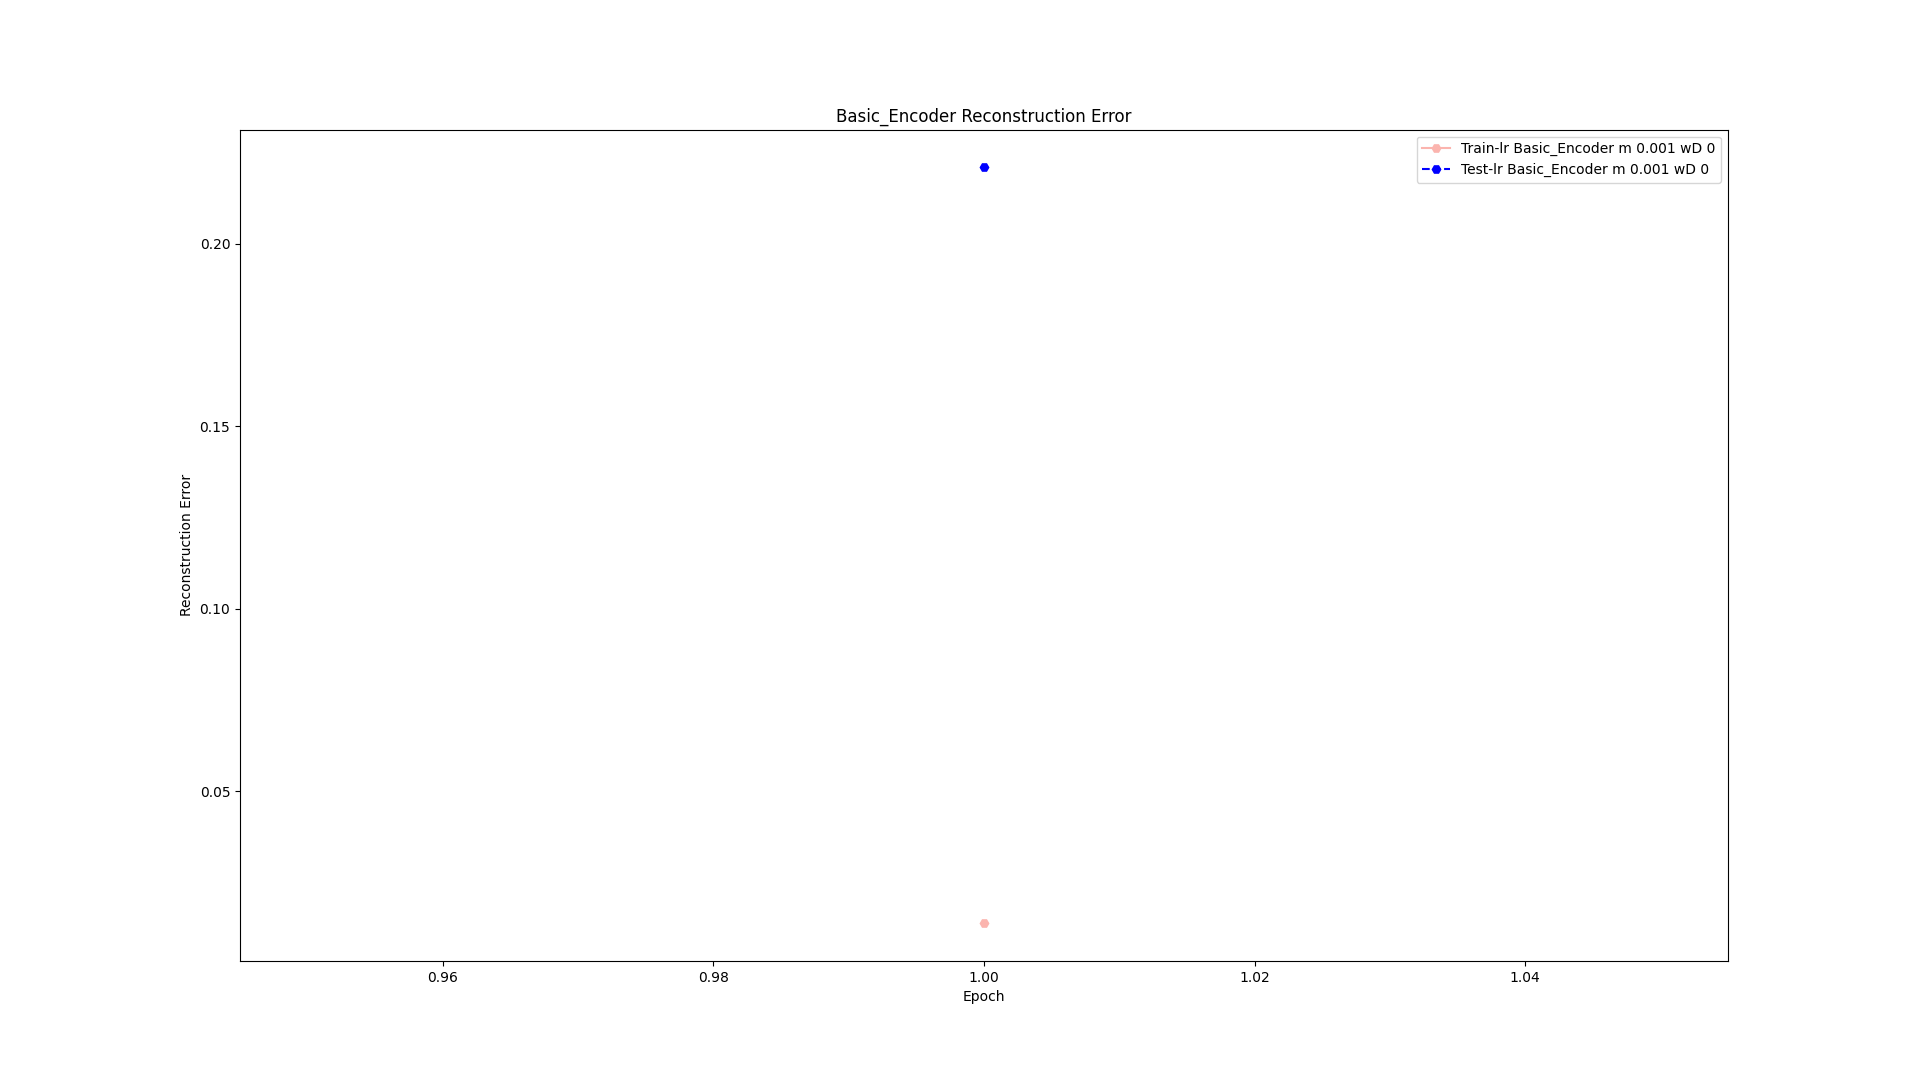
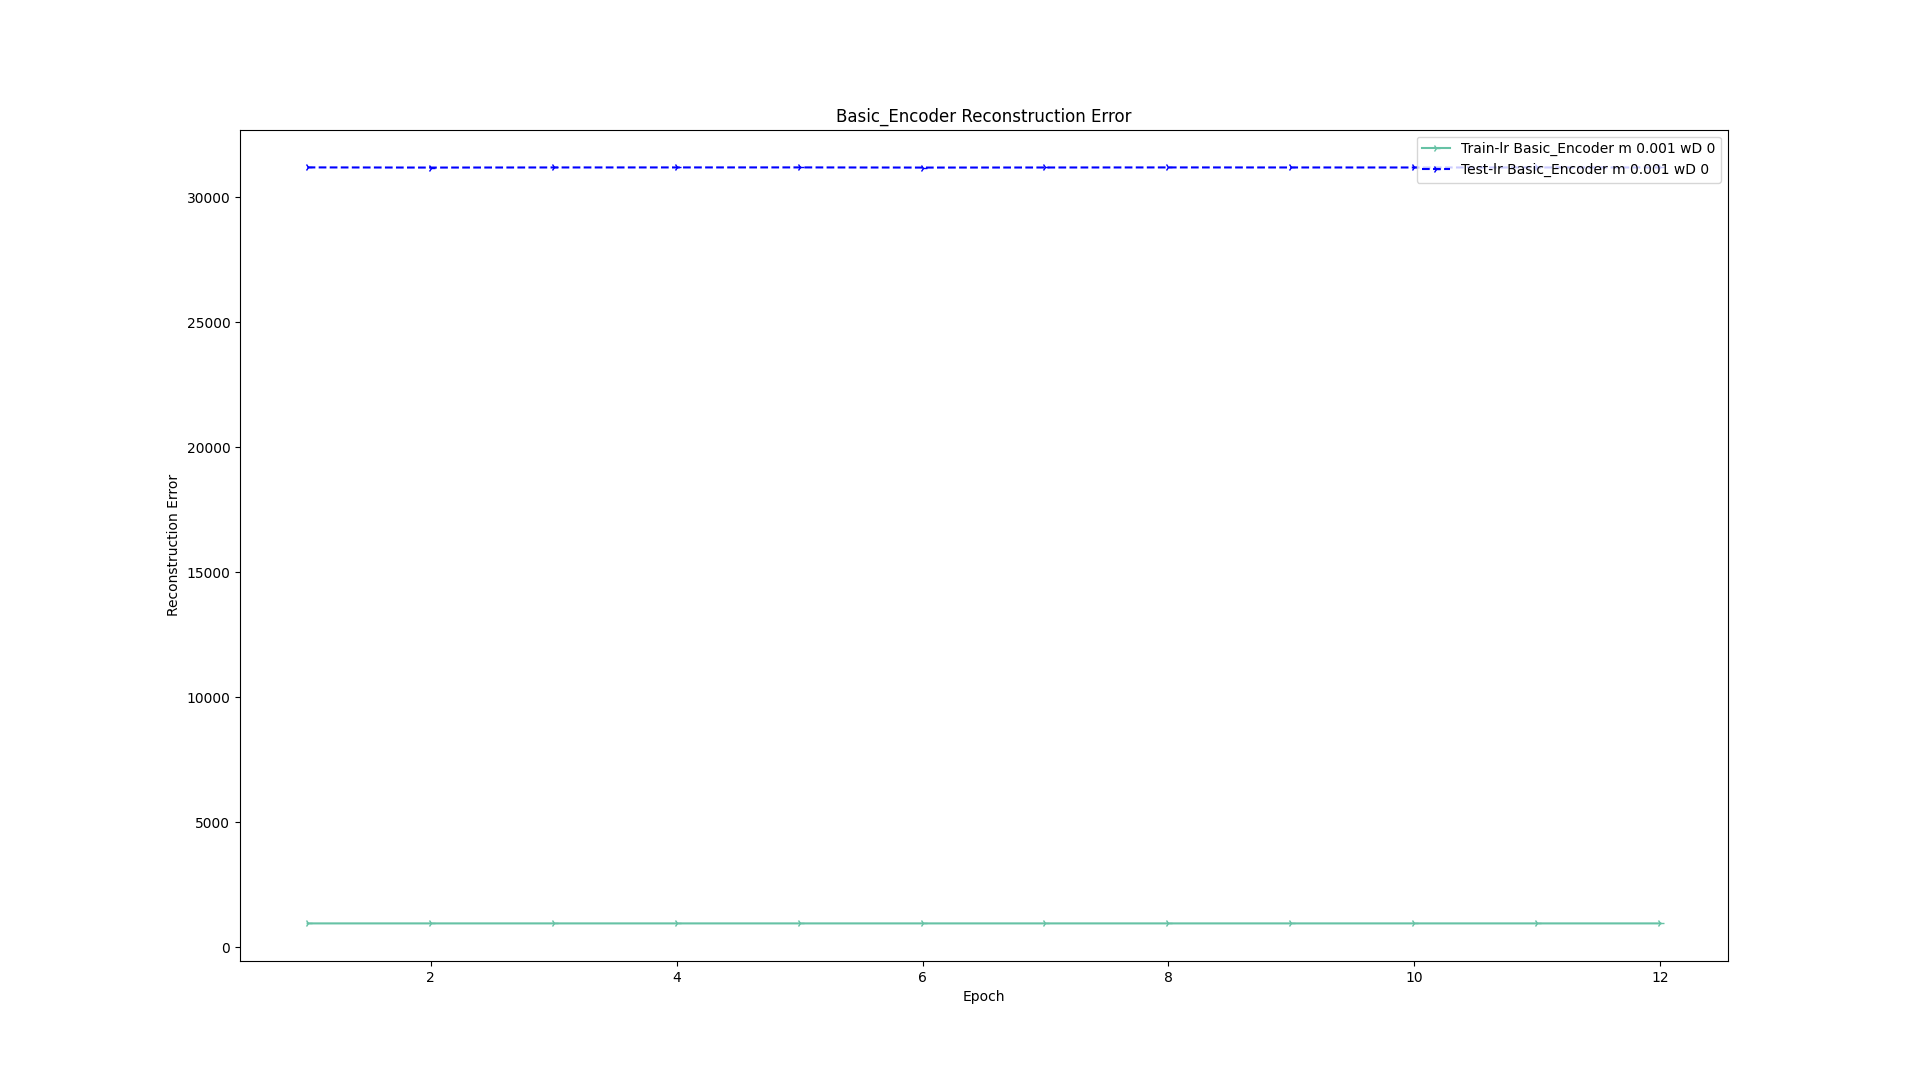
Adde print layers function

diff --git a/Project/top_level.py b/Project/top_level.py
@@ -86,8 +86,8 @@ def main():
     lr, m , bSize, epochs = parse_args()
     # Load data, initialize model and optimizer!
     # Use this for debugg, loads a tiny amount of dummy data!
-    trainLoader, testLoader = load_data(dataPackagePath = os.path.join(dir_path, 'Data','dummy.npz'),  bSize=bSize)
-    #trainLoader, testLoader = load_data(bSize=bSize)
+    #trainLoader, testLoader = load_data(dataPackagePath = os.path.join(dir_path, 'Data','dummy.npz'),  bSize=bSize)
+    trainLoader, testLoader = load_data(bSize=bSize)
     # ---|
     
     if False:
@@ -139,7 +139,8 @@ def main():
     print("######### Initiating Basic Autoencoder Network Training #########\n")
     print("Parameters: lr:{}, momentum:{}, batch Size:{}, epochs:{}".format(lr,m,bSize,epochs))
     fitArgs = {}
-    model.fit(trainLoader, testLoader, optim, device, epochs = 1, lossFunction = loss, earlyStopIdx = 1, earlyTestStopIdx = 1, saveHistory = True, savePlot= True)
+    model.print_layers()
+    model.fit(trainLoader, testLoader, optim, device, epochs = 12, lossFunction = loss, earlyStopIdx = 0, earlyTestStopIdx = 0, saveHistory = True, savePlot= True)
     
     # Generate Data
     fruitSamples = load_data(dataPackagePath = os.path.join(dir_path, 'Data','fruit_samples.npz'),  isFruitSamples = True)

diff --git a/Project/autoencoder_template.py b/Project/autoencoder_template.py
@@ -129,6 +129,12 @@ class AutoEncoderFrame(nn.Module):
         save_image(genData,'{}.png'.format(saveSamplePath))
         
         return genData
+
+    #-------------------------------------------------------------------------------------------------------------------------------
+    def print_layers(self):
+        l = [module for module in self.encoder.modules() if type(module) != nn.Sequential]
+        print(l)
+        return l
     #-------------------------------------------------------------------------------------------------------------------------------
 
     def get_model_descr(self):
